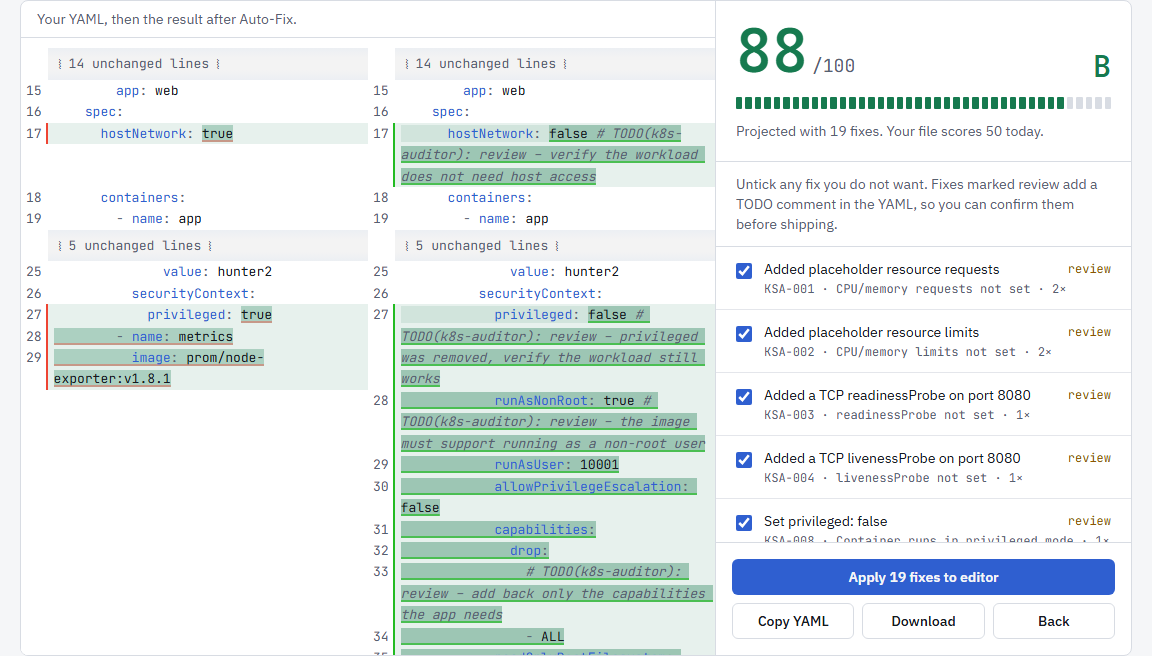
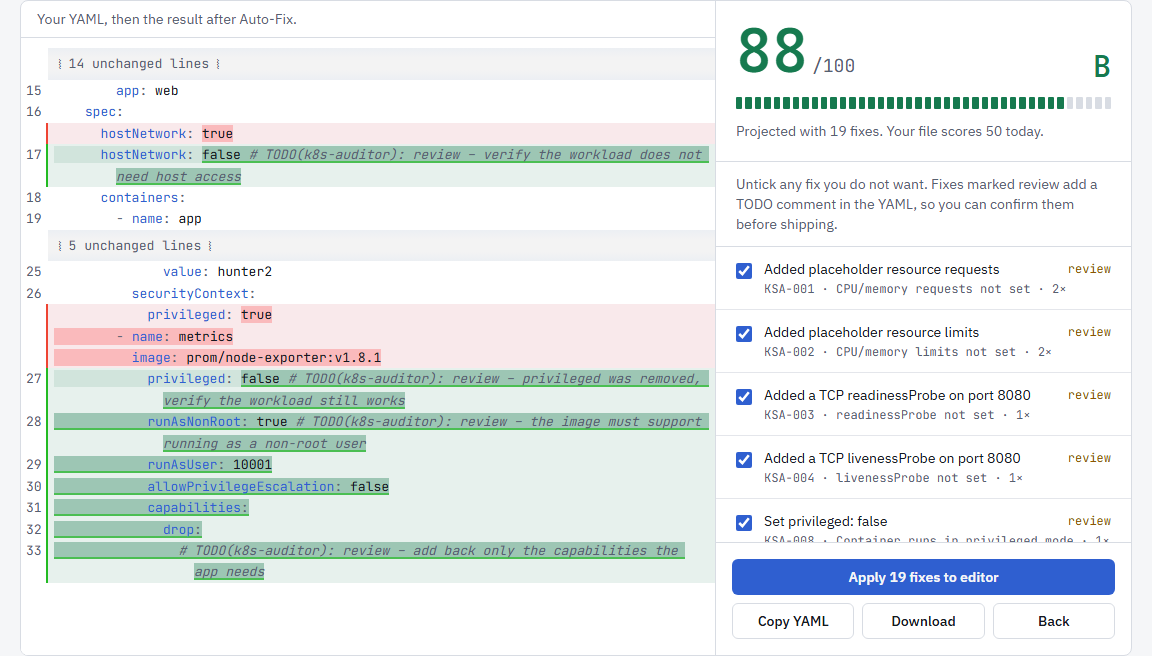
docs: update README for the unified diff

Changed region(s): [[0.0312, 0.3659, 0.625, 1.0], [0.0312, 0.122, 0.625, 0.3354], [0.3438, 0.0915, 0.5, 0.1524]]

diff --git a/README.md b/README.md
@@ -47,7 +47,7 @@ K8s Auditor shortens that loop. Open the page, paste YAML, and see what is wrong
 - **22 rules** across resources, health probes, images, privileges, host access and hygiene, each mapped to the Pod Security Standards, the CIS Kubernetes Benchmark or the NSA/CISA hardening guide where one applies.
 - **A 0 to 100 score** with a grade. Severity is weighted, repeats of the same rule cost less each time, and any critical finding caps the score.
 - **Findings under the line they belong to.** Open one to see the suggested change as a diff and apply it on its own.
-- **Auto-Fix with a review step.** See every change as a side by side diff, untick the ones you do not want, then apply, copy or download the result.
+- **Auto-Fix with a review step.** See every change as a diff, untick the ones you do not want, then apply, copy or download the result.
 - **Comments and key order survive.** Fixes edit the parsed YAML document, not the text.
 - **Anchors, aliases and merge keys** (`&a`, `*a`, `<<`) are expanded before the rules run, so values that come from an alias are checked.
 - **English and Bulgarian**, light and dark theme (light by default), keyboard friendly.
@@ -115,7 +115,7 @@ Severity drives the score: critical costs 15 points, warning 5, info 1. Repeats 
   </tr>
   <tr>
     <td width="50%"><img src="docs/screenshots/annotation.png" alt="An expanded finding with a suggested fix"><br><sub>A finding opened under its line, with the fix to apply on its own.</sub></td>
-    <td width="50%"><img src="docs/screenshots/autofix-review.png" alt="Auto-Fix review with a side by side diff and selectable fixes"><br><sub>Auto-Fix review: a diff, a projected score and a switch per fix.</sub></td>
+    <td width="50%"><img src="docs/screenshots/autofix-review.png" alt="Auto-Fix review with a diff and selectable fixes"><br><sub>Auto-Fix review: a diff, a projected score and a switch per fix.</sub></td>
   </tr>
 </table>
 
@@ -138,7 +138,7 @@ The interface also comes in Bulgarian:
 | UI | React 19 | Small component tree, no state library needed |
 | Build | Vite 8 | Fast dev server, static output for GitHub Pages |
 | Styling | Tailwind CSS 4 with CSS variable tokens | One token set drives the light and dark themes |
-| Editor | CodeMirror 6, `@codemirror/merge` | Inline widgets under lines, side by side diffs |
+| Editor | CodeMirror 6, `@codemirror/merge` | Inline widgets under lines, unified diffs |
 | YAML | [`yaml`](https://github.com/eemeli/yaml) 2.x | Keeps comments, key order and source positions. `js-yaml` drops comments |
 | Tests | Vitest 5 | Fast, runs against the pure core without a DOM |
 | Lint | oxlint | Fast, with React hooks and TypeScript rules |
